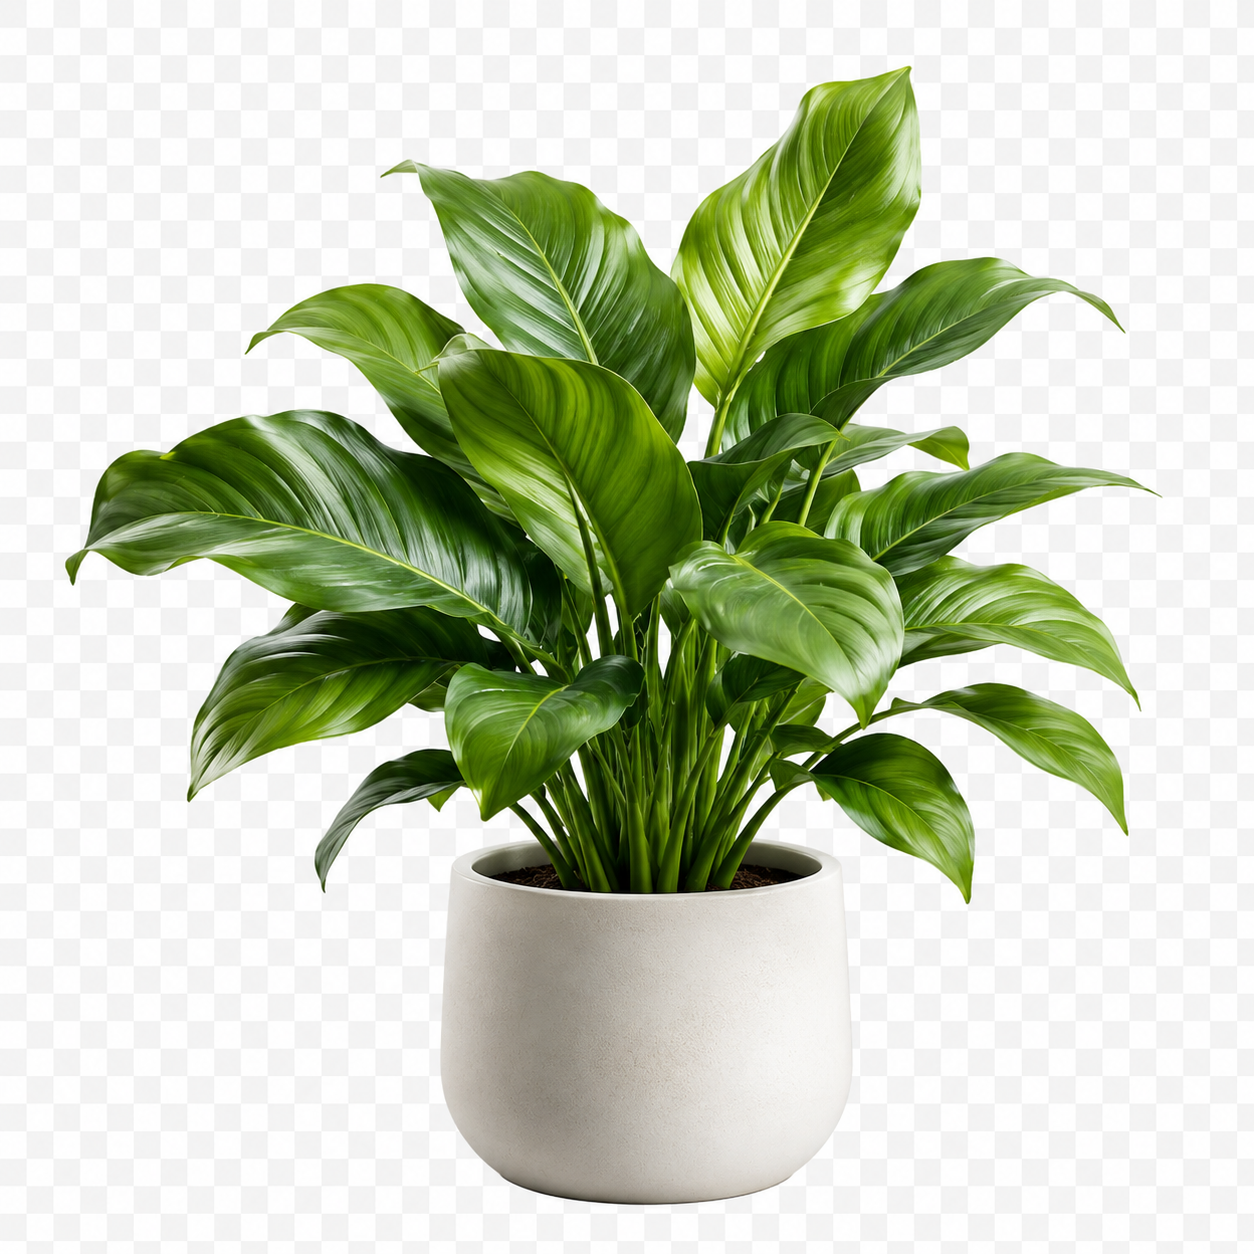
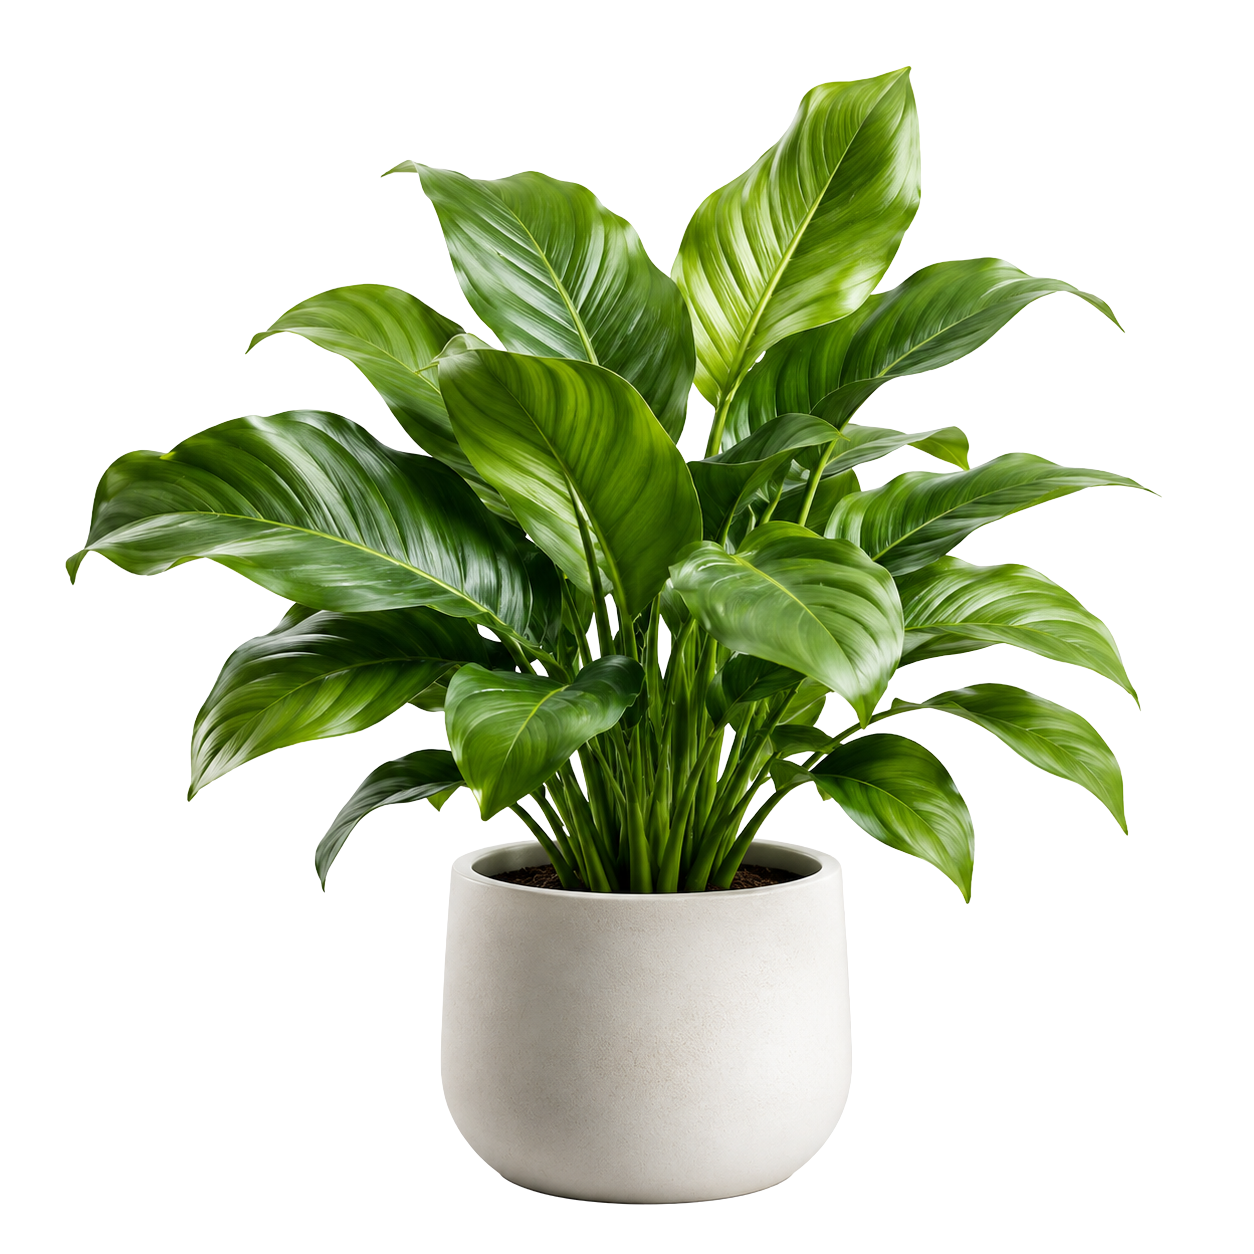
Update onboarding screens with new image assets and enhance illustration handling
- Replaced existing illustration components in onboarding screens with new image assets for improved visual consistency.
- Added new images: `icon3.png` and `splash-draft.png` to the assets.
- Updated `finish.tsx`, `privacy.tsx`, `room.tsx`, `track.tsx`, and `welcome.tsx` to utilize the new `Image` component from `expo-image` for better image handling.

Changed region(s): [[0.6842, 0.5598, 0.7153, 0.5909]]

diff --git a/apps/native/screens/onboarding/finish.tsx b/apps/native/screens/onboarding/finish.tsx
@@ -6,6 +6,7 @@ import { Text, View } from "react-native";
 import { useDatabase } from "@/lib/db";
 import { OnboardingShell } from "@/screens/onboarding/_components/onboarding-shell";
 import { useOnboardingStore } from "@/stores/use-onboarding-store";
+import { Image } from "expo-image";
 
 export function OnboardingFinishScreen() {
   const accent = useThemeColor("accent");
@@ -30,8 +31,12 @@ export function OnboardingFinishScreen() {
       title="You're all set"
       subtitle="LeafCue is ready. Add your first plant now or explore the app first — you can always come back."
       illustration={
-        <View className="size-32 items-center justify-center rounded-3xl bg-success-soft">
-          <Ionicons name="happy-outline" size={64} color={success} />
+        <View className="">
+          <Image
+            source={require("@/assets/images/plant.png")}
+            style={{ width: 256, height: 256 }}
+            contentFit="contain"
+          />
         </View>
       }
       primaryLabel="Add my first plant"

diff --git a/apps/native/screens/onboarding/room.tsx b/apps/native/screens/onboarding/room.tsx
@@ -14,6 +14,7 @@ import { useDatabase } from "@/lib/db";
 import { createRoom, deleteRoom } from "@/lib/db/repositories";
 import { rooms } from "@/lib/db/schema";
 import { OnboardingShell } from "@/screens/onboarding/_components/onboarding-shell";
+import { Image } from "expo-image";
 
 export function OnboardingRoomScreen() {
   const accent = useThemeColor("accent");
@@ -43,8 +44,12 @@ export function OnboardingRoomScreen() {
       title="Where do your plants live?"
       subtitle="Tap to remove rooms you don't need, or add your own. You can edit them later."
       illustration={
-        <View className="size-24 items-center justify-center rounded-3xl bg-accent-soft">
-          <Ionicons name="home-outline" size={48} color={accent} />
+        <View className="">
+          <Image
+            source={require("@/assets/images/plant.png")}
+            style={{ width: 256, height: 256 }}
+            contentFit="contain"
+          />
         </View>
       }
       primaryLabel="Looks good"

diff --git a/apps/native/screens/onboarding/welcome.tsx b/apps/native/screens/onboarding/welcome.tsx
@@ -4,6 +4,7 @@ import { useThemeColor } from "heroui-native";
 import { Text, View } from "react-native";
 
 import { OnboardingShell } from "@/screens/onboarding/_components/onboarding-shell";
+import { Image } from "expo-image";
 
 export function OnboardingWelcomeScreen() {
   const accent = useThemeColor("accent");
@@ -14,8 +15,12 @@ export function OnboardingWelcomeScreen() {
       title="Welcome to LeafCue"
       subtitle="A calm, private place to keep your plants thriving — no accounts, no clouds, just gentle reminders."
       illustration={
-        <View className="size-32 items-center justify-center rounded-3xl bg-accent-soft">
-          <Ionicons name="leaf-outline" size={64} color={accent} />
+        <View className="">
+          <Image
+            source={require("@/assets/images/plant.png")}
+            style={{ width: 256, height: 256 }}
+            contentFit="contain"
+          />
         </View>
       }
       primaryLabel="Get started"

diff --git a/apps/native/screens/onboarding/track.tsx b/apps/native/screens/onboarding/track.tsx
@@ -4,6 +4,7 @@ import { useThemeColor } from "heroui-native";
 import { Text, View } from "react-native";
 
 import { OnboardingShell } from "@/screens/onboarding/_components/onboarding-shell";
+import { Image } from "expo-image";
 
 const CAPABILITIES: ReadonlyArray<{
   icon: keyof typeof Ionicons.glyphMap;
@@ -51,8 +52,12 @@ export function OnboardingTrackScreen() {
       title="Track everything that matters"
       subtitle="Build a clear picture of every plant — without the chore-list feel."
       illustration={
-        <View className="size-24 items-center justify-center rounded-3xl bg-accent-soft">
-          <Ionicons name="sparkles-outline" size={52} color={accent} />
+        <View className="">
+          <Image
+            source={require("@/assets/images/plant.png")}
+            style={{ width: 256, height: 256 }}
+            contentFit="contain"
+          />
         </View>
       }
       primaryLabel="Sounds good"

diff --git a/apps/native/screens/onboarding/privacy.tsx b/apps/native/screens/onboarding/privacy.tsx
@@ -4,6 +4,7 @@ import { useThemeColor } from "heroui-native";
 import { Text, View } from "react-native";
 
 import { OnboardingShell } from "@/screens/onboarding/_components/onboarding-shell";
+import { Image } from "expo-image";
 
 const PROMISES: ReadonlyArray<{
   icon: keyof typeof Ionicons.glyphMap;
@@ -45,8 +46,12 @@ export function OnboardingPrivacyScreen() {
       title="Private by design"
       subtitle="LeafCue protects your plant care notes the same way it protects you."
       illustration={
-        <View className="size-24 items-center justify-center rounded-3xl bg-accent-soft">
-          <Ionicons name="shield-checkmark-outline" size={52} color={accent} />
+        <View className="">
+          <Image
+            source={require("@/assets/images/plant.png")}
+            style={{ width: 256, height: 256 }}
+            contentFit="contain"
+          />
         </View>
       }
       primaryLabel="That sounds great"

diff --git a/apps/native/screens/onboarding/_components/onboarding-shell.tsx b/apps/native/screens/onboarding/_components/onboarding-shell.tsx
@@ -49,7 +49,7 @@ export function OnboardingShell({
   };
 
   const eyebrow = (
-    <View className="flex-row items-center justify-between">
+    <View className="flex-row items-center justify-between w-full">
       <ProgressDots step={step} totalSteps={ONBOARDING_STEPS} />
       {showSkip ? (
         <PressableFeedback onPress={handleSkip}>
